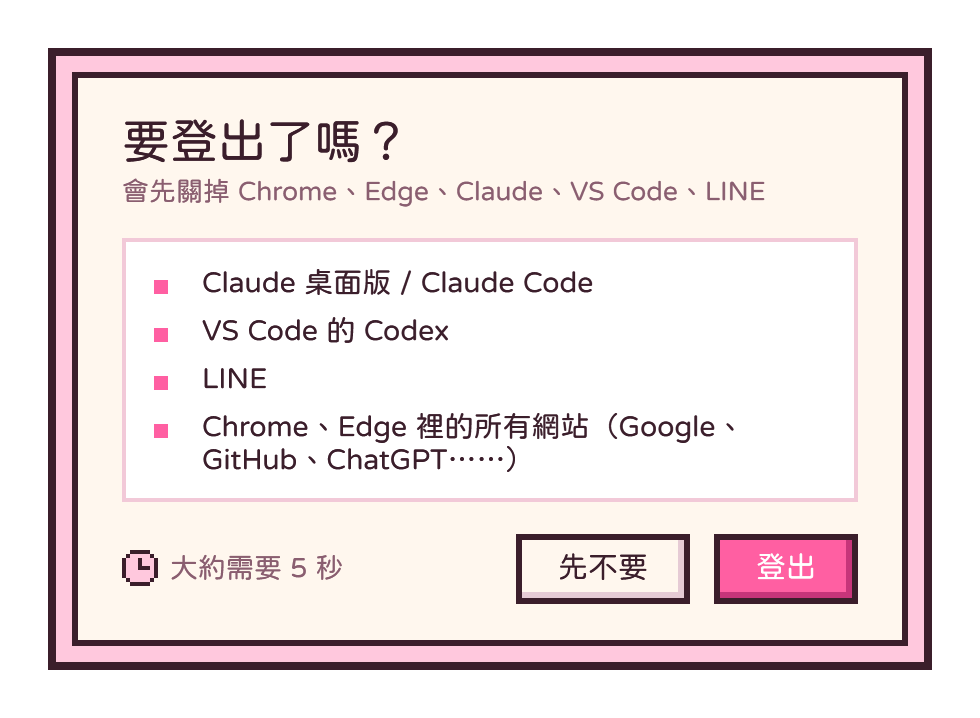
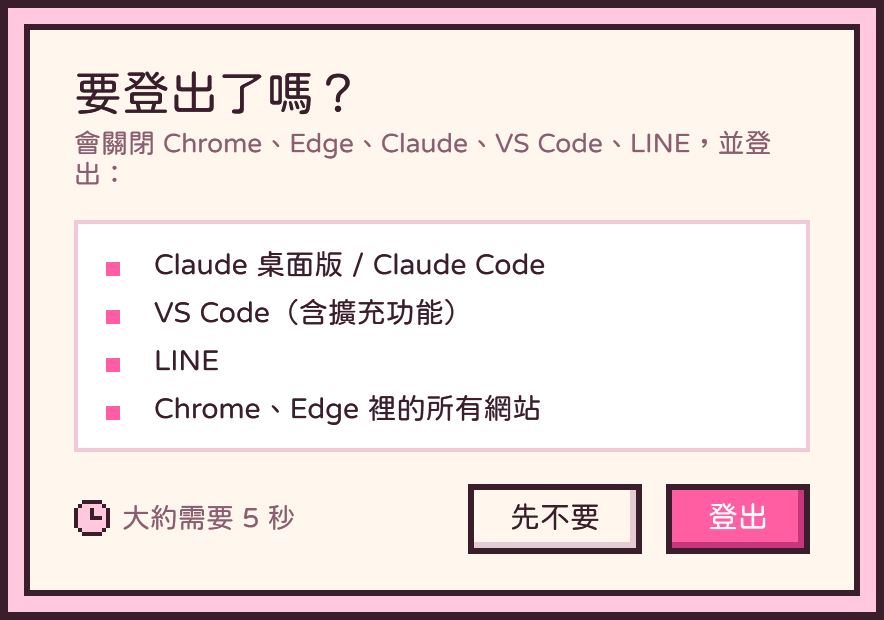
登出 VS Code 帳號；結果視窗只列失敗項目；選風格視窗改成方案 A
- 關掉 VS Code 後清掉 state.vscdb 裡的帳號資料，連擴充功能一起登出
- 中途停掉時交給備援程序重做，不再跳「有些還沒做完」
- 經典和可愛共用同一套文字；失敗時只列要手動登出的項目
- 選風格視窗：真的視窗縮圖、捷徑圖示、「用這個」按鈕；可愛改名草莓牛奶
- 重畫兩張預覽圖

diff --git a/README.md b/README.md
@@ -4,17 +4,17 @@
 
 兩種風格，名字都叫「一鍵登出」，只有長相不同，自己選一個：
 
-| 經典色 | 可愛粉 |
+| 經典色 | 草莓牛奶 |
 |:---:|:---:|
-| ![經典色](素材/預覽-經典.png) | ![可愛粉](素材/預覽-可愛.png) |
-| Windows 11 風格，只用系統字型 | 粉色像素風，附粉圓體 |
+| ![經典色](素材/預覽-經典.png) | ![草莓牛奶](素材/預覽-可愛.png) |
+| Windows 11 風格，只用系統字型 | 奶油色配莓果粉，附粉圓體 |
 
 ## 會做什麼
 
 關閉下列程式，並刪除「登入用的 cookie / token」，下次打開要重新登入：
 
 - **Claude 桌面版**、**Claude Code**
-- **VS Code 的 Codex**
+- **VS Code** 本身登入的帳號（GitHub、微軟……），和 **Codex 擴充功能**
 - **LINE 電腦版**（安裝在 `%LOCALAPPDATA%\LINE` 的一般版，不是 Microsoft Store 版）
 - **Chrome、Edge 裡的所有網站**（Google、GitHub、ChatGPT……全部）
 
@@ -56,7 +56,8 @@ powershell -ExecutionPolicy Bypass -File 一鍵登出.ps1 -DryRun
 - 先刪 Claude Code 和 Codex 的登入檔，同時請瀏覽器和 VS Code 開始關閉。
 - Claude 桌面版被關掉後 1 秒內會自己重開並鎖住檔案，所以對它採取「強制結束、立刻清除、失敗就重試」的做法，最多 20 次。
 - Chrome / Edge 用 SQLite 直接清空每個設定檔的 cookie 資料表和瀏覽器帳號 token，其他資料表不動。
-- 六個步驟各自獨立，一步失敗不影響其他步驟。
+- VS Code 關掉後，從 `state.vscdb`（和它的備份檔）刪掉 `secret://` 開頭的資料，也就是 VS Code 和擴充功能存的帳號 token。
+- 七個步驟各自獨立，一步失敗不影響其他步驟。
 - 開始時會用 WMI 另外啟動一個備援程序；主程序中途被關掉的話，備援程序會接手沒做完的步驟。
 - 結果視窗放在 `finally` 裡，不管中途發生什麼事都會顯示。視窗本身出錯時會退回 Windows 內建的訊息框。
 
